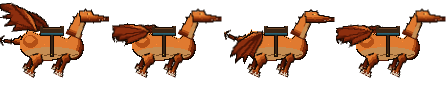
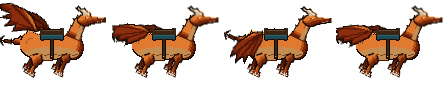
v0.1.4 — GenForge hi-fi art live: all five actors render from baked bundles
GenForge parts->skeleton->bake pipeline now produces the game's actual art:
hero, gloamfen stalker, gloamfen wisp, Emberwing Matriarch and the saddled
ember drake render from game/prototype/art/ bundles (2x supersampled,
size-overridden to logical world sizes — full detail through the canvas_items
window upscale). New ProtoBundleArt loader (static cache, ms-level loads,
fail-safe procedural fallback); sprites.gd factories hook bundles first.
Skeleton/pose fixes (stalker tail/head/jaw, matriarch jaw hinge, drake horned
head + saddle drape). Gates: pytest 11/11, BUNDLECHECK 18/18 contracts,
click test ALL PASS, boots clean.

diff --git a/genforge/pipeline/actor_art.py b/genforge/pipeline/actor_art.py
@@ -727,14 +727,17 @@ def build_drake_parts() -> Dict[str, Part]:
         d.ellipse(_box((0, 4, 21, 26), o), fill=fill)                 # haunch
         d.polygon(_pts([(4, 8), (7, 2), (10, 8)], o), fill=fill)      # spines
         d.polygon(_pts([(50, 8), (53, 3), (56, 9)], o), fill=fill)
+        # shoulder ridge: fills the back line between saddle and neck
+        d.polygon(_pts([(42, 10), (47, 5), (52, 10)], o), fill=fill)
 
     def body_detail(d):
         for i, col in enumerate(pal["belly"]):
             d.ellipse((6 - i, 22 - i, 58, 32), fill=col + (255,))
         for x in range(10, 56, 7):
             d.line([(x, 28), (x + 5, 27)], fill=pal["belly"][0] + (255,), width=1)
-        d.ellipse((3, 8, 17, 20), fill=pal["scale"][2] + (255,))      # haunch core
-        d.ellipse((5, 9, 13, 15), fill=pal["scale"][3] + (255,))
+        # haunch muscle: curved highlight arcs, not a flat disk
+        d.arc((3, 8, 18, 22), 150, 320, fill=pal["scale"][3] + (255,), width=2)
+        d.arc((6, 11, 15, 19), 160, 300, fill=pal["scale"][2] + (255,), width=1)
 
     body_img = _shaded((64, 34), body, pal["scale"], outline=out,
                        detail=body_detail)
@@ -753,9 +756,12 @@ def build_drake_parts() -> Dict[str, Part]:
     d.point((1, 0), fill=pal["leather_hi"] + (255,))
     d.rectangle((21, 0, 23, 6), fill=pal["leather"] + (255,))         # pommel
     d.point((22, 0), fill=pal["leather_hi"] + (255,))
-    d.rectangle((1, 7, 22, 8), fill=pal["blanket"] + (255,))          # blanket
+    d.rectangle((1, 7, 22, 10), fill=pal["blanket"] + (255,))         # blanket drape
     d.line([(1, 7), (22, 7)], fill=pal["blanket_hi"] + (255,), width=1)
-    d.rectangle((11, 9, 12, 29), fill=pal["leather"] + (255,))        # girth strap
+    d.point((2, 11), fill=pal["blanket"] + (255,))                    # drape tips
+    d.point((11, 11), fill=pal["blanket"] + (255,))
+    d.point((21, 11), fill=pal["blanket"] + (255,))
+    d.rectangle((11, 11, 12, 29), fill=pal["leather"] + (255,))       # girth strap
     d.point((11, 28), fill=pal["buckle"] + (255,))                    # buckle glint
     saddle = _outline_ext(saddle, out)
     parts["saddle"] = (saddle, (12.0, 2.0), 0.0)
@@ -776,30 +782,34 @@ def build_drake_parts() -> Dict[str, Part]:
     _px(neck_img, 12, 14, pal["ember"])                               # throat ember
     parts["neck"] = (neck_img, (8.0, 22.0), 0.0)
 
-    # -- head: long horned skull, heavy brow, closed jaw with fangs ------------
+    # -- head: horned skull (horns IN the silhouette), heavy brow, fanged muzzle
+    horn1 = [(10, 10), (1, 2), (4, 0), (14, 8)]
+    horn2 = [(14, 9), (8, 4), (10, 2), (17, 8)]
+
     def head(d, fill, o):
-        d.polygon(_pts([(4, 4), (16, 3), (18, 7), (33, 10), (33, 14),
-                        (18, 16), (5, 15)], o), fill=fill)
-        d.polygon(_pts([(6, 5), (10, 2), (13, 6)], o), fill=fill)     # brow
+        d.polygon(_pts(horn1, o), fill=fill)                          # swept horns
+        d.polygon(_pts(horn2, o), fill=fill)
+        d.ellipse(_box((3, 8, 19, 20), o), fill=fill)                 # cranium
+        d.polygon(_pts([(15, 10), (31, 12), (31, 16), (15, 19)], o), fill=fill)
+        d.polygon(_pts([(6, 9), (11, 6), (14, 11)], o), fill=fill)    # brow
 
     def head_detail(d):
-        # swept-back horns
-        d.polygon([(8, 5), (1, -1), (4, -2), (12, 3)], fill=pal["horn"][1] + (255,))
-        d.polygon([(12, 4), (7, 0), (9, -1), (15, 3)], fill=pal["horn"][2] + (255,))
-        d.line([(9, 3), (16, 4)], fill=pal["rim"] + (255,), width=1)  # brow ridge
-        d.line([(17, 14), (32, 12)], fill=pal["scale"][0] + (255,), width=1)  # mouth
-        d.point((24, 13), fill=pal["horn"][2] + (255,))               # fangs
-        d.point((29, 12), fill=pal["horn"][2] + (255,))
-        d.point((31, 11), fill=(20, 8, 3, 255))                       # nostril
+        d.polygon(horn1, fill=pal["horn"][1] + (255,))                # horn tones
+        d.polygon(horn2, fill=pal["horn"][2] + (255,))
+        d.line([(16, 18), (30, 15)], fill=pal["scale"][0] + (255,), width=1)  # mouth
+        d.point((23, 16), fill=pal["horn"][2] + (255,))               # fangs
+        d.point((27, 15), fill=pal["horn"][2] + (255,))
+        d.point((29, 13), fill=(20, 8, 3, 255))                       # nostril
 
-    head_img = _shaded((34, 20), head, pal["scale"], outline=out,
+    head_img = _shaded((32, 22), head, pal["scale"], outline=out,
                        detail=head_detail)
-    _px(head_img, 12, 7, (26, 10, 4))                                 # eye socket
-    _px(head_img, 13, 7, pal["eye"])
-    _px(head_img, 14, 7, pal["eye"])
-    _px(head_img, 13, 6, (232, 150, 70))                              # brow bleed
-    _px(head_img, 27, 13, pal["ember"])                               # jaw smolder
-    parts["head"] = (head_img, (6.0, 11.0), 0.0)
+    _rim(head_img, pal["rim"], x_range=(12, 29), y_max=13)
+    _px(head_img, 11, 12, (26, 10, 4))                                # eye socket
+    _px(head_img, 12, 12, pal["eye"])
+    _px(head_img, 13, 12, pal["eye"])
+    _px(head_img, 12, 11, (232, 150, 70))                             # brow bleed
+    _px(head_img, 25, 16, pal["ember"])                               # jaw smolder
+    parts["head"] = (head_img, (7.0, 14.0), 0.0)
 
     # -- tail: two segments, spade tip ------------------------------------------
     def tail1(d, fill, o):

diff --git a/genforge/pipeline/bake_game_art.py b/genforge/pipeline/bake_game_art.py
@@ -26,12 +26,23 @@ from typing import Dict, List, Optional
 
 from PIL import Image
 
-from .actor_art import ACTOR_BUILDERS
-from .assemble import Assembler
-from .manifest import PartsManifest
-from .poses import PoseLibrary
-from .skeletons import Skeleton
-from .stub_provider import GenerationRequest, StubPartsProvider
+try:
+    from .actor_art import ACTOR_BUILDERS
+    from .assemble import Assembler
+    from .manifest import PartsManifest
+    from .poses import PoseLibrary
+    from .skeletons import Skeleton
+    from .stub_provider import GenerationRequest, StubPartsProvider
+except ImportError:  # invoked as a plain script path, not as a module
+    import sys
+
+    sys.path.insert(0, str(Path(__file__).resolve().parents[2]))
+    from genforge.pipeline.actor_art import ACTOR_BUILDERS
+    from genforge.pipeline.assemble import Assembler
+    from genforge.pipeline.manifest import PartsManifest
+    from genforge.pipeline.poses import PoseLibrary
+    from genforge.pipeline.skeletons import Skeleton
+    from genforge.pipeline.stub_provider import GenerationRequest, StubPartsProvider
 
 GENFORGE_ROOT = Path(__file__).resolve().parents[1]
 REPO_ROOT = GENFORGE_ROOT.parent
